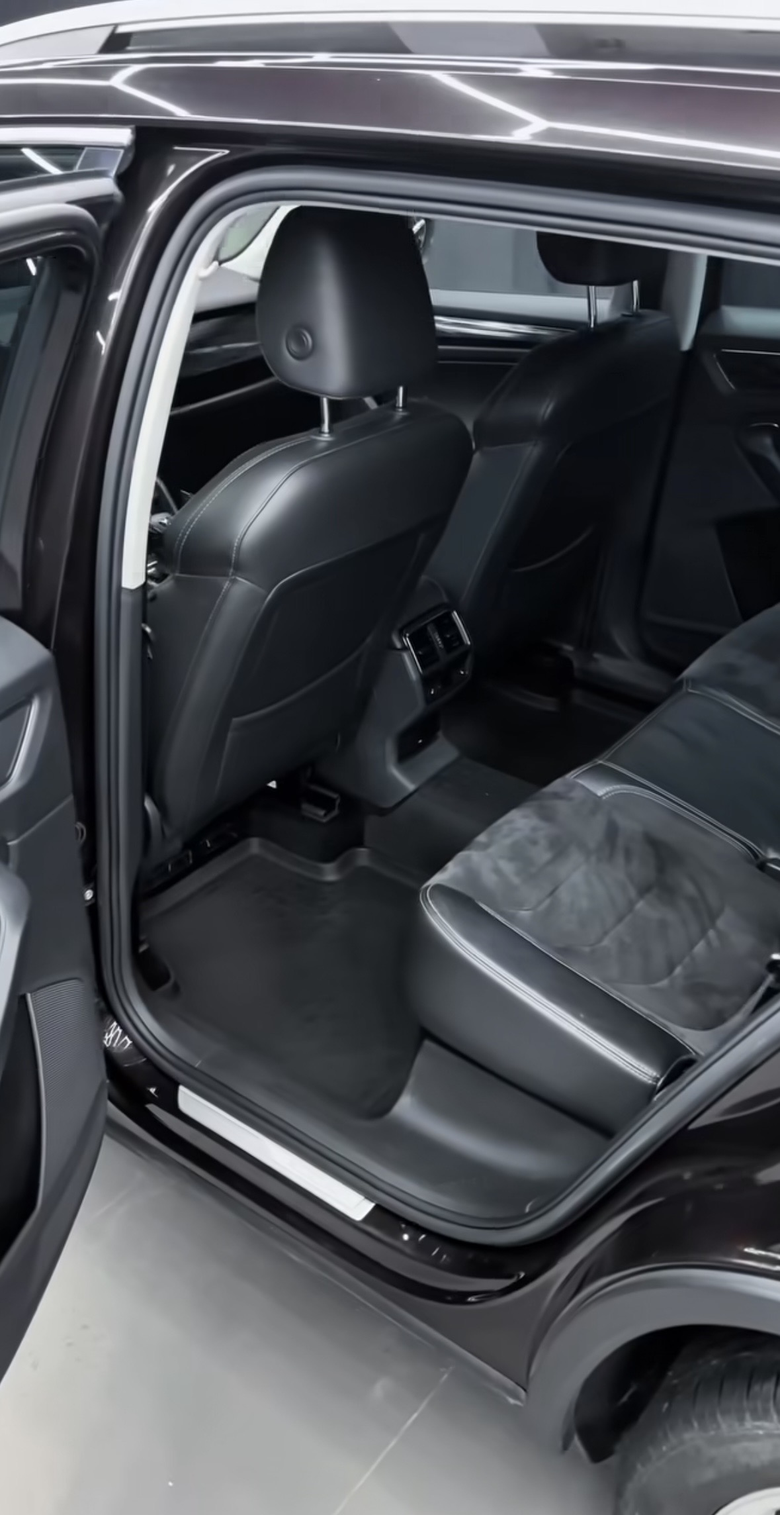
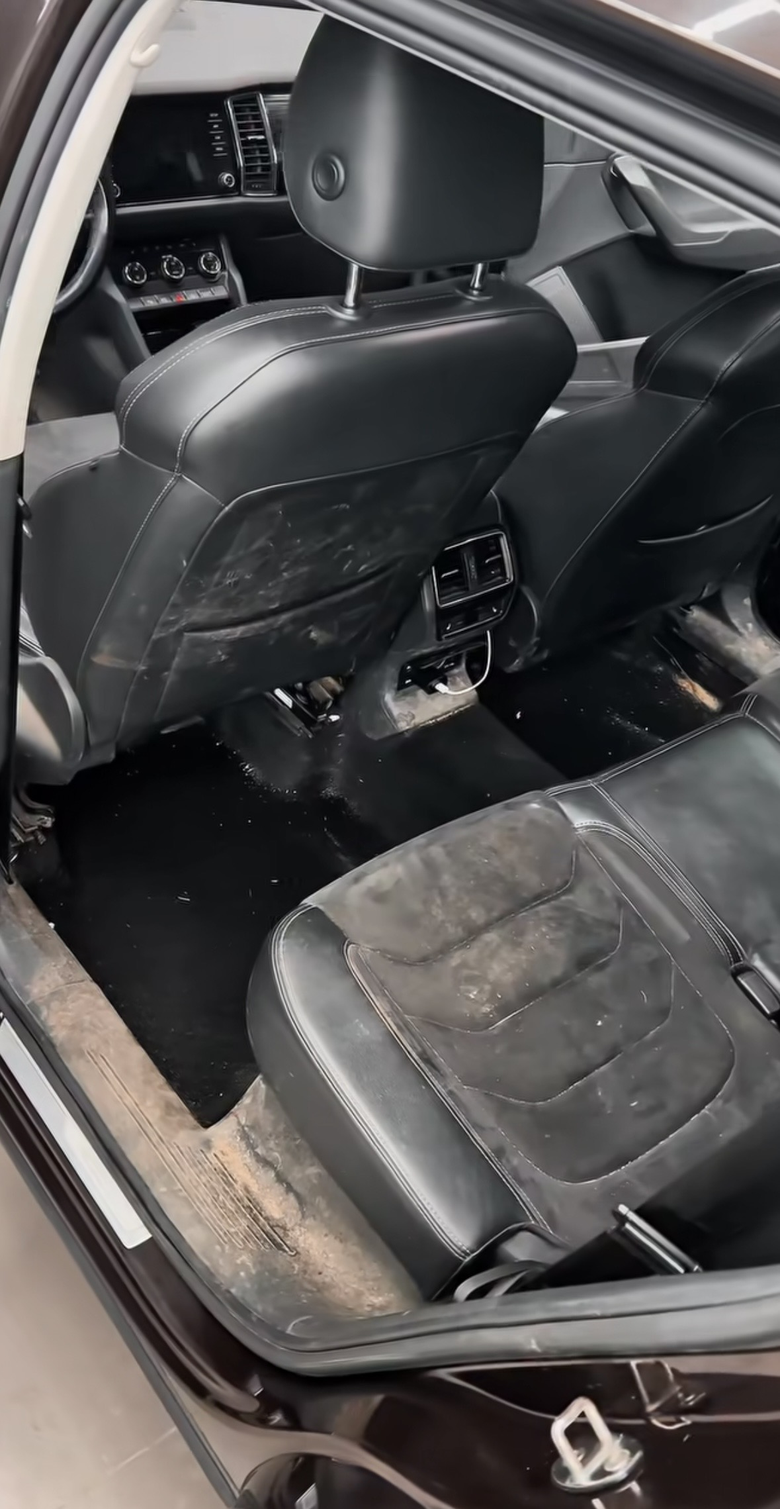
Add files via upload

diff --git a/style.css b/style.css
@@ -1,2 +1,2 @@
-*{box-sizing:border-box}html{scroll-behavior:smooth}body{margin:0;background:#10080c;color:#f7f1ec;font-family:Manrope,Arial,sans-serif;line-height:1.6}a{text-decoration:none;color:inherit}.wrap{width:min(1180px,calc(100% - 44px));margin:auto}.grid2{display:grid;grid-template-columns:1.1fr .9fr;gap:90px}.logo{display:flex;flex-direction:column;font-weight:800;font-size:19px;letter-spacing:.14em;line-height:.85}.logo small{font-size:7px;letter-spacing:.42em;color:#76dfd0;margin-top:7px}header{position:fixed;top:0;left:0;right:0;z-index:20;background:#10080ccc;backdrop-filter:blur(16px);border-bottom:1px solid #ffffff1c}.nav{min-height:82px;display:flex;align-items:center;gap:30px}.nav nav{display:flex;gap:26px;margin-left:auto}.nav nav a,.phone{font-size:12px;color:#d7cccf}.nav nav a:hover{color:#76dfd0}.phone{font-weight:800}.burger{display:none;background:none;border:0;color:#fff;font-size:24px}.hero{height:860px;position:relative;display:flex;align-items:center;overflow:hidden}.hero-bg{position:absolute;inset:0;background:url('images/bmw-studio.jpeg') center/cover}.mask{position:absolute;inset:0;background:linear-gradient(90deg,#10080cf7,#310a18bd 48%,#10080c40),radial-gradient(circle at 72% 48%,#76dfd01c,transparent 28%)}.hero-in{position:relative;z-index:1;padding-top:90px;display:flex;justify-content:space-between;align-items:end}.eyebrow{color:#76dfd0;font-size:10px;font-weight:800;letter-spacing:.25em}.dark,.burg{color:#64152e}.hero h1{font-size:clamp(52px,8vw,98px);line-height:.9;letter-spacing:-.055em;margin:24px 0 28px}.accent{font:inherit;font-style:normal;color:#76dfd0}.lead{max-width:590px;color:#d5c9cc;font-size:16px}.buttons{display:flex;gap:12px;margin-top:30px;flex-wrap:wrap}.btn{min-height:54px;padding:0 25px;border:1px solid transparent;border-radius:2px;display:inline-flex;align-items:center;justify-content:center;font-size:12px;font-weight:800;cursor:pointer}.aqua{background:#76dfd0;color:#0a1715}.aqua:hover{background:#b3f4eb}.outline{border-color:#ffffff55}.outline:hover{border-color:#76dfd0;color:#76dfd0}.hero-note{border-left:1px solid #76dfd080;padding-left:18px;font-size:11px}.hero-note b{color:#76dfd0;display:block}.hero-foot{position:absolute;bottom:0;left:0;right:0;border-top:1px solid #ffffff1c}.hero-foot .wrap{height:55px;display:flex;align-items:center;justify-content:space-between;color:#b9aeb1;font-size:9px;letter-spacing:.2em}.intro{padding:125px 0;background:#f7f1ec;color:#1b0d12}.intro h2,.light h2{font-size:clamp(43px,5vw,68px);line-height:.96;letter-spacing:-.05em;margin:20px 0}.intro h2 .accent,.light h2 .accent{color:#64152e}.introtext{color:#655a5e;max-width:480px;align-self:end}.link{color:#64152e;font-size:12px;font-weight:800}.section{padding:125px 0}.title{display:flex;justify-content:space-between;align-items:end;gap:50px;margin-bottom:55px}.title>p{max-width:360px;color:#b9aeb1;font-size:13px}.services{display:grid;grid-template-columns:1.2fr 1fr 1fr;gap:14px}.card{background:#1a0d13;border:1px solid #ffffff1c;min-height:485px;position:relative;overflow:hidden;transition:.25s}.card:hover{transform:translateY(-5px);border-color:#76dfd070}.card.big{grid-row:span 2}.pic{height:215px;background-size:cover;background-position:center}.big .pic{height:315px}.p1{background-image:url('images/mercedes-wash.jpeg')}.p2{background-image:url('images/bmw-front.jpeg')}.p3{background-image:url('images/after-interior.jpeg')}.p4{background-image:url('images/porsche.jpeg')}.body{padding:27px}.meta{display:flex;justify-content:space-between;color:#76dfd0;font-size:10px;font-weight:800}.card h3{font-size:27px;line-height:1.05;margin:45px 0 12px}.card p{color:#b9aeb1;font-size:12px}.card a{position:absolute;bottom:23px;left:27px;color:#76dfd0;font-size:11px;font-weight:800}.studio{padding:0;background:#310a18}.studio-grid{min-height:650px}.studio-photo{min-height:650px;background:url('images/bmw-studio.jpeg') center/cover;position:relative}.studio-photo span{position:absolute;left:28px;bottom:28px;color:#76dfd0;font-size:9px;letter-spacing:.2em;border-left:1px solid #76dfd0;padding-left:12px}.studio-text{align-self:center;padding:60px 0}.studio-text h2{font-size:clamp(43px,5vw,68px);line-height:.96;margin:20px 0}.studio-text>p{color:#b9aeb1;max-width:510px;font-size:14px}.studio-text ul{list-style:none;padding:0;margin-top:35px}.studio-text li{padding:14px 0;border-top:1px solid #ffffff1c;font-size:12px}.studio-text li:before{content:'✓';color:#76dfd0;margin-right:12px}.light{background:#f7f1ec;color:#1b0d12}.light .title>p{color:#73676a}.gallery{display:grid;grid-template-columns:1.2fr .8fr .8fr;grid-auto-rows:250px;gap:12px}.gallery img{width:100%;height:100%;object-fit:cover;transition:.5s}.gallery img:hover{transform:scale(1.03)}.gallery .g1{grid-row:span 2}.gallery .wide{grid-column:span 2}.compare-section{background:#10080c}.center{text-align:center}.compare{height:580px;margin-top:45px;position:relative;overflow:hidden}.compare>img,.before img{position:absolute;inset:0;width:100%;height:100%;object-fit:cover}.before{position:absolute;inset:0;width:50%;overflow:hidden}.before img{width:100vw;max-width:1180px}.compare input{position:absolute;inset:0;width:100%;height:100%;opacity:0;cursor:ew-resize}.line{position:absolute;top:0;bottom:0;left:50%;width:2px;background:#76dfd0;box-shadow:0 0 15px #76dfd080}.lab{position:absolute;top:18px;background:#10080ccc;padding:5px 9px;font-size:9px;letter-spacing:.2em}.l{left:18px}.r{right:18px}.process{background:#150a0f}.steps{display:grid;grid-template-columns:repeat(4,1fr);gap:12px;margin-top:55px}.steps>div{padding:28px;border-top:1px solid #ffffff1c}.steps b{color:#76dfd0;font-size:10px}.steps h3{margin:40px 0 8px}.steps p{color:#b9aeb1;font-size:12px}.cta{padding:115px 0;background:linear-gradient(135deg,#64152e,#310a18)}.cta h2{font-size:clamp(44px,5vw,68px);line-height:.96;margin:20px 0}.cta p{color:#dfd1d5}.contacts{display:grid;gap:7px;margin-top:30px}.contacts a,.contacts span{color:#b3f4eb;font-size:13px}.cta form{display:grid;gap:12px;background:#10080c66;padding:30px;border:1px solid #ffffff20}.cta label{font-size:10px;letter-spacing:.08em;color:#ddd;display:grid;gap:7px}.cta input,.cta select{height:52px;background:#10080c;border:1px solid #ffffff20;color:#fff;padding:0 14px;outline:none}.cta input:focus,.cta select:focus{border-color:#76dfd0}.cta small{color:#76dfd0;min-height:20px}footer{background:#0b0609;padding:32px 0}.foot{display:flex;justify-content:space-between;align-items:center;color:#85787b;font-size:10px}.foot>a:last-child{color:#76dfd0}@media(max-width:900px){.nav nav{display:none}.burger{display:block;margin-left:auto}.phone{display:none}.nav nav.open{display:flex;position:absolute;top:82px;left:0;right:0;background:#150a0f;padding:22px;flex-direction:column}.hero{height:780px}.hero-in{display:block}.hero-note{margin-top:55px;width:max-content}.grid2{grid-template-columns:1fr;gap:45px}.services{grid-template-columns:1fr 1fr}.card.big{grid-row:auto}.studio-grid{grid-template-columns:1fr}.studio-photo{min-height:500px}.gallery{grid-template-columns:1fr 1fr}.gallery .g1{grid-row:auto}.gallery .wide{grid-column:span 2}.steps{grid-template-columns:1fr 1fr}.cta{padding:90px 0}}@media(max-width:560px){.wrap{width:calc(100% - 28px)}.section,.intro{padding:90px 0}.hero h1{font-size:54px}.title{display:block}.title>p{margin-top:24px}.services{grid-template-columns:1fr}.gallery{grid-template-columns:1fr;grid-auto-rows:240px}.gallery .wide{grid-column:auto}.compare{height:420px}.steps{grid-template-columns:1fr}.foot{flex-direction:column;align-items:flex-start;gap:16px}}
+*{box-sizing:border-box}html{scroll-behavior:smooth}body{margin:0;background:#10080c;color:#f7f1ec;font-family:Manrope,Arial,sans-serif;line-height:1.6}a{text-decoration:none;color:inherit}.wrap{width:min(1180px,calc(100% - 44px));margin:auto}.grid2{display:grid;grid-template-columns:1.1fr .9fr;gap:90px}.logo{display:flex;flex-direction:column;font-weight:800;font-size:19px;letter-spacing:.14em;line-height:.85}.logo small{font-size:7px;letter-spacing:.42em;color:#76dfd0;margin-top:7px}header{position:fixed;top:0;left:0;right:0;z-index:20;background:#10080ccc;backdrop-filter:blur(16px);border-bottom:1px solid #ffffff1c}.nav{min-height:82px;display:flex;align-items:center;gap:30px}.nav nav{display:flex;gap:26px;margin-left:auto}.nav nav a,.phone{font-size:12px;color:#d7cccf}.nav nav a:hover{color:#76dfd0}.phone{font-weight:800}.burger{display:none;background:none;border:0;color:#fff;font-size:24px}.hero{height:860px;position:relative;display:flex;align-items:center;overflow:hidden}.hero-bg{position:absolute;inset:0;background:url('bmw-studio.jpeg') center/cover}.mask{position:absolute;inset:0;background:linear-gradient(90deg,#10080cf7,#310a18bd 48%,#10080c40),radial-gradient(circle at 72% 48%,#76dfd01c,transparent 28%)}.hero-in{position:relative;z-index:1;padding-top:90px;display:flex;justify-content:space-between;align-items:end}.eyebrow{color:#76dfd0;font-size:10px;font-weight:800;letter-spacing:.25em}.dark,.burg{color:#64152e}.hero h1{font-size:clamp(52px,8vw,98px);line-height:.9;letter-spacing:-.055em;margin:24px 0 28px}.accent{font:inherit;font-style:normal;color:#76dfd0}.lead{max-width:590px;color:#d5c9cc;font-size:16px}.buttons{display:flex;gap:12px;margin-top:30px;flex-wrap:wrap}.btn{min-height:54px;padding:0 25px;border:1px solid transparent;border-radius:2px;display:inline-flex;align-items:center;justify-content:center;font-size:12px;font-weight:800;cursor:pointer}.aqua{background:#76dfd0;color:#0a1715}.aqua:hover{background:#b3f4eb}.outline{border-color:#ffffff55}.outline:hover{border-color:#76dfd0;color:#76dfd0}.hero-note{border-left:1px solid #76dfd080;padding-left:18px;font-size:11px}.hero-note b{color:#76dfd0;display:block}.hero-foot{position:absolute;bottom:0;left:0;right:0;border-top:1px solid #ffffff1c}.hero-foot .wrap{height:55px;display:flex;align-items:center;justify-content:space-between;color:#b9aeb1;font-size:9px;letter-spacing:.2em}.intro{padding:125px 0;background:#f7f1ec;color:#1b0d12}.intro h2,.light h2{font-size:clamp(43px,5vw,68px);line-height:.96;letter-spacing:-.05em;margin:20px 0}.intro h2 .accent,.light h2 .accent{color:#64152e}.introtext{color:#655a5e;max-width:480px;align-self:end}.link{color:#64152e;font-size:12px;font-weight:800}.section{padding:125px 0}.title{display:flex;justify-content:space-between;align-items:end;gap:50px;margin-bottom:55px}.title>p{max-width:360px;color:#b9aeb1;font-size:13px}.services{display:grid;grid-template-columns:1.2fr 1fr 1fr;gap:14px}.card{background:#1a0d13;border:1px solid #ffffff1c;min-height:485px;position:relative;overflow:hidden;transition:.25s}.card:hover{transform:translateY(-5px);border-color:#76dfd070}.card.big{grid-row:span 2}.pic{height:215px;background-size:cover;background-position:center}.big .pic{height:315px}.p1{background-image:url('mercedes-wash.jpeg')}.p2{background-image:url('bmw-front.jpeg')}.p3{background-image:url('after-interior.jpeg')}.p4{background-image:url('porsche.jpeg')}.body{padding:27px}.meta{display:flex;justify-content:space-between;color:#76dfd0;font-size:10px;font-weight:800}.card h3{font-size:27px;line-height:1.05;margin:45px 0 12px}.card p{color:#b9aeb1;font-size:12px}.card a{position:absolute;bottom:23px;left:27px;color:#76dfd0;font-size:11px;font-weight:800}.studio{padding:0;background:#310a18}.studio-grid{min-height:650px}.studio-photo{min-height:650px;background:url('bmw-studio.jpeg') center/cover;position:relative}.studio-photo span{position:absolute;left:28px;bottom:28px;color:#76dfd0;font-size:9px;letter-spacing:.2em;border-left:1px solid #76dfd0;padding-left:12px}.studio-text{align-self:center;padding:60px 0}.studio-text h2{font-size:clamp(43px,5vw,68px);line-height:.96;margin:20px 0}.studio-text>p{color:#b9aeb1;max-width:510px;font-size:14px}.studio-text ul{list-style:none;padding:0;margin-top:35px}.studio-text li{padding:14px 0;border-top:1px solid #ffffff1c;font-size:12px}.studio-text li:before{content:'✓';color:#76dfd0;margin-right:12px}.light{background:#f7f1ec;color:#1b0d12}.light .title>p{color:#73676a}.gallery{display:grid;grid-template-columns:1.2fr .8fr .8fr;grid-auto-rows:250px;gap:12px}.gallery img{width:100%;height:100%;object-fit:cover;transition:.5s}.gallery img:hover{transform:scale(1.03)}.gallery .g1{grid-row:span 2}.gallery .wide{grid-column:span 2}.compare-section{background:#10080c}.center{text-align:center}.compare{height:580px;margin-top:45px;position:relative;overflow:hidden}.compare>img,.before img{position:absolute;inset:0;width:100%;height:100%;object-fit:cover}.before{position:absolute;inset:0;width:50%;overflow:hidden}.before img{width:100vw;max-width:1180px}.compare input{position:absolute;inset:0;width:100%;height:100%;opacity:0;cursor:ew-resize}.line{position:absolute;top:0;bottom:0;left:50%;width:2px;background:#76dfd0;box-shadow:0 0 15px #76dfd080}.lab{position:absolute;top:18px;background:#10080ccc;padding:5px 9px;font-size:9px;letter-spacing:.2em}.l{left:18px}.r{right:18px}.process{background:#150a0f}.steps{display:grid;grid-template-columns:repeat(4,1fr);gap:12px;margin-top:55px}.steps>div{padding:28px;border-top:1px solid #ffffff1c}.steps b{color:#76dfd0;font-size:10px}.steps h3{margin:40px 0 8px}.steps p{color:#b9aeb1;font-size:12px}.cta{padding:115px 0;background:linear-gradient(135deg,#64152e,#310a18)}.cta h2{font-size:clamp(44px,5vw,68px);line-height:.96;margin:20px 0}.cta p{color:#dfd1d5}.contacts{display:grid;gap:7px;margin-top:30px}.contacts a,.contacts span{color:#b3f4eb;font-size:13px}.cta form{display:grid;gap:12px;background:#10080c66;padding:30px;border:1px solid #ffffff20}.cta label{font-size:10px;letter-spacing:.08em;color:#ddd;display:grid;gap:7px}.cta input,.cta select{height:52px;background:#10080c;border:1px solid #ffffff20;color:#fff;padding:0 14px;outline:none}.cta input:focus,.cta select:focus{border-color:#76dfd0}.cta small{color:#76dfd0;min-height:20px}footer{background:#0b0609;padding:32px 0}.foot{display:flex;justify-content:space-between;align-items:center;color:#85787b;font-size:10px}.foot>a:last-child{color:#76dfd0}@media(max-width:900px){.nav nav{display:none}.burger{display:block;margin-left:auto}.phone{display:none}.nav nav.open{display:flex;position:absolute;top:82px;left:0;right:0;background:#150a0f;padding:22px;flex-direction:column}.hero{height:780px}.hero-in{display:block}.hero-note{margin-top:55px;width:max-content}.grid2{grid-template-columns:1fr;gap:45px}.services{grid-template-columns:1fr 1fr}.card.big{grid-row:auto}.studio-grid{grid-template-columns:1fr}.studio-photo{min-height:500px}.gallery{grid-template-columns:1fr 1fr}.gallery .g1{grid-row:auto}.gallery .wide{grid-column:span 2}.steps{grid-template-columns:1fr 1fr}.cta{padding:90px 0}}@media(max-width:560px){.wrap{width:calc(100% - 28px)}.section,.intro{padding:90px 0}.hero h1{font-size:54px}.title{display:block}.title>p{margin-top:24px}.services{grid-template-columns:1fr}.gallery{grid-template-columns:1fr;grid-auto-rows:240px}.gallery .wide{grid-column:auto}.compare{height:420px}.steps{grid-template-columns:1fr}.foot{flex-direction:column;align-items:flex-start;gap:16px}}
 /* ROYAL DETAIL typography: same font and size inside each phrase; accent changes color only. */

diff --git a/index.html b/index.html
@@ -1,0 +1,52 @@
+<!doctype html>
+<html lang="ru"><head>
+<meta charset="utf-8"><meta name="viewport" content="width=device-width,initial-scale=1">
+<title>ROYAL DETAIL — Premium Detailing</title>
+<meta name="description" content="ROYAL DETAIL — премиальный детейлинг автомобилей">
+<link rel="preconnect" href="https://fonts.googleapis.com"><link rel="preconnect" href="https://fonts.gstatic.com" crossorigin>
+<link href="https://fonts.googleapis.com/css2?family=Manrope:wght@400;500;600;700;800&display=swap" rel="stylesheet">
+<link rel="stylesheet" href="style.css"></head>
+<body>
+<header><div class="wrap nav"><a class="logo" href="#home">ROYAL<small>DETAILING STUDIO</small></a>
+<button class="burger">☰</button><nav><a href="#services">Услуги</a><a href="#studio">О студии</a><a href="#works">Работы</a><a href="#process">Процесс</a><a href="#contact">Контакты</a></nav>
+<a class="phone" href="tel:+79027221523">8 902 722-15-23</a></div></header>
+<main id="home">
+<section class="hero"><div class="hero-bg"></div><div class="mask"></div><div class="wrap hero-in"><div><p class="eyebrow">PREMIUM CAR CARE</p>
+<h1>Автомобиль, <span class="accent">достойный внимания.</span></h1><p class="lead">Премиальный детейлинг без компромиссов: восстановление блеска, защита кузова и идеальная чистота интерьера.</p>
+<div class="buttons"><a class="btn aqua" href="#contact">Записаться</a><a class="btn outline" href="#services">Смотреть услуги</a></div></div>
+<div class="hero-note"><b>01</b>Работаем с автомобилем<br>как с произведением искусства.</div></div>
+<div class="hero-foot"><div class="wrap"><span>ROYAL DETAIL · PREMIUM STUDIO</span><span>SCROLL ↓</span></div></div></section>
+
+<section class="intro"><div class="wrap grid2"><div><p class="eyebrow dark">ROYAL PHILOSOPHY</p><h2>Красота начинается <span class="accent">с деталей.</span></h2></div><div class="introtext"><p>Студия для тех, кто ценит качество работы и эстетику премиального сервиса. Подбираем процедуры под автомобиль, а не продаём лишние услуги.</p><a class="link" href="#studio">Узнать больше →</a></div></div></section>
+
+<section class="section" id="services"><div class="wrap"><div class="title"><div><p class="eyebrow">НАШИ УСЛУГИ</p><h2>Уход, который <span class="accent">видно.</span></h2></div><p>От восстановления блеска до долговременной защиты кузова и глубокого ухода за салоном.</p></div>
+<div class="services">
+<article class="card big"><div class="pic p1"></div><div class="body"><div class="meta"><span>01</span><span>от 45 000 ₽</span></div><h3>Керамическая<br>защита</h3><p>Глубина цвета, гидрофобный эффект и защита лакокрасочного покрытия.</p><a href="#contact">Записаться →</a></div></article>
+<article class="card"><div class="pic p2"></div><div class="body"><div class="meta"><span>02</span><span>от 18 000 ₽</span></div><h3>Полировка<br>кузова</h3><p>Возвращаем лаку гладкость, блеск и насыщенность цвета.</p><a href="#contact">Записаться →</a></div></article>
+<article class="card"><div class="pic p3"></div><div class="body"><div class="meta"><span>03</span><span>от 12 000 ₽</span></div><h3>Детейлинг<br>интерьера</h3><p>Глубокая очистка, уход за кожей и каждой зоной салона.</p><a href="#contact">Записаться →</a></div></article>
+<article class="card"><div class="pic p4"></div><div class="body"><div class="meta"><span>04</span><span>от 35 000 ₽</span></div><h3>Защитная<br>плёнка</h3><p>Прозрачная защита зон риска от сколов и царапин.</p><a href="#contact">Записаться →</a></div></article>
+</div></div></section>
+
+<section class="studio" id="studio"><div class="wrap grid2 studio-grid"><div class="studio-photo"><span>ROYAL<br>STANDARD</span></div><div class="studio-text"><p class="eyebrow">О СТУДИИ</p><h2>Премиальный <span class="accent">стандарт</span> в каждой детали.</h2><p>Перед работой внимательно осматриваем автомобиль и составляем понятный план. Никаких лишних процедур — только то, что действительно нужно.</p>
+<ul><li>Профессиональная химия и оборудование</li><li>Индивидуальный подбор комплекса</li><li>Контроль качества на каждом этапе</li><li>Рекомендации по дальнейшему уходу</li></ul></div></div></section>
+
+<section class="light section" id="works"><div class="wrap"><div class="title"><div><p class="eyebrow burg">PORTFOLIO</p><h2>Результат <span class="accent">говорит сам.</span></h2></div><p>Наши работы и автомобили, которые прошли уход в ROYAL DETAIL.</p></div>
+<div class="gallery">
+<img class="g1" src="bmw-front.jpeg" alt="BMW — работа ROYAL DETAIL">
+<img src="bmw-pink.jpeg" alt="BMW — работа ROYAL DETAIL">
+<img src="porsche.jpeg" alt="Porsche — работа ROYAL DETAIL">
+<img class="wide" src="audi-studio.jpeg" alt="Audi — работа ROYAL DETAIL">
+</div></div></section>
+
+<section class="section compare-section"><div class="wrap center"><p class="eyebrow">ДО / ПОСЛЕ</p><h2>Когда разница <span class="accent">очевидна.</span></h2><div class="compare">
+<img src="after-interior.jpeg" alt="Салон после детейлинга">
+<div class="before"><img src="before-interior.jpeg" alt="Салон до детейлинга"></div>
+<input id="range" type="range" min="0" max="100" value="50">
+<i class="line"></i><b class="lab l">ДО</b><b class="lab r">ПОСЛЕ</b>
+</div><input id="range" type="range" min="0" max="100" value="50"><i class="line"></i><b class="lab l">ДО</b><b class="lab r">ПОСЛЕ</b></div></div></section>
+
+<section class="section process" id="process"><div class="wrap center"><p class="eyebrow">КАК МЫ РАБОТАЕМ</p><h2>Четыре шага к <span class="accent">идеалу.</span></h2><div class="steps"><div><b>01</b><h3>Заявка</h3><p>Вы рассказываете об автомобиле и выбираете время.</p></div><div><b>02</b><h3>Осмотр</h3><p>Оцениваем состояние и согласовываем комплекс.</p></div><div><b>03</b><h3>Работа</h3><p>Выполняем процедуры с контролем качества.</p></div><div><b>04</b><h3>Выдача</h3><p>Показываем результат и даём рекомендации.</p></div></div></div></section>
+
+<section class="cta" id="contact"><div class="wrap grid2"><div><p class="eyebrow">ЗАПИСЬ</p><h2>Подарите автомобилю <span class="accent">ROYAL-уход.</span></h2><p>Оставьте контакты — мы свяжемся с вами и подберём подходящий комплекс.</p><div class="contacts"><a href="tel:+79027221523">8 902 722-15-23</a><span>Москва · район Раменки</span></div></div>
+<form id="form"><label>Имя<input required name="name" placeholder="Ваше имя"></label><label>Телефон<input required name="phone" placeholder="+7 ___ ___-__-__"></label><label>Услуга<select name="service"><option>Выберите услугу</option><option>Керамическая защита</option><option>Полировка кузова</option><option>Детейлинг интерьера</option><option>Защитная плёнка</option></select></label><button class="btn aqua">Отправить заявку</button><small id="msg"></small></form></div></section>
+</main><footer><div class="wrap foot"><a class="logo" href="#home">ROYAL<small>DETAILING STUDIO</small></a><span>© 2026 ROYAL DETAIL</span><a href="#home">Наверх ↑</a></div></footer><script src="script.js"></script></body></html>

diff --git a/README.md b/README.md
@@ -1,52 +1,22 @@
-<!doctype html>
-<html lang="ru"><head>
-<meta charset="utf-8"><meta name="viewport" content="width=device-width,initial-scale=1">
-<title>ROYAL DETAIL — Premium Detailing</title>
-<meta name="description" content="ROYAL DETAIL — премиальный детейлинг автомобилей">
-<link rel="preconnect" href="https://fonts.googleapis.com"><link rel="preconnect" href="https://fonts.gstatic.com" crossorigin>
-<link href="https://fonts.googleapis.com/css2?family=Manrope:wght@400;500;600;700;800&display=swap" rel="stylesheet">
-<link rel="stylesheet" href="style.css"></head>
-<body>
-<header><div class="wrap nav"><a class="logo" href="#home">ROYAL<small>DETAILING STUDIO</small></a>
-<button class="burger">☰</button><nav><a href="#services">Услуги</a><a href="#studio">О студии</a><a href="#works">Работы</a><a href="#process">Процесс</a><a href="#contact">Контакты</a></nav>
-<a class="phone" href="tel:+79027221523">8 902 722-15-23</a></div></header>
-<main id="home">
-<section class="hero"><div class="hero-bg"></div><div class="mask"></div><div class="wrap hero-in"><div><p class="eyebrow">PREMIUM CAR CARE</p>
-<h1>Автомобиль, <span class="accent">достойный внимания.</span></h1><p class="lead">Премиальный детейлинг без компромиссов: восстановление блеска, защита кузова и идеальная чистота интерьера.</p>
-<div class="buttons"><a class="btn aqua" href="#contact">Записаться</a><a class="btn outline" href="#services">Смотреть услуги</a></div></div>
-<div class="hero-note"><b>01</b>Работаем с автомобилем<br>как с произведением искусства.</div></div>
-<div class="hero-foot"><div class="wrap"><span>ROYAL DETAIL · PREMIUM STUDIO</span><span>SCROLL ↓</span></div></div></section>
+# ROYAL DETAIL — готовая версия сайта
 
-<section class="intro"><div class="wrap grid2"><div><p class="eyebrow dark">ROYAL PHILOSOPHY</p><h2>Красота начинается <span class="accent">с деталей.</span></h2></div><div class="introtext"><p>Студия для тех, кто ценит качество работы и эстетику премиального сервиса. Подбираем процедуры под автомобиль, а не продаём лишние услуги.</p><a class="link" href="#studio">Узнать больше →</a></div></div></section>
+Эта версия подготовлена для GitHub Pages.
 
-<section class="section" id="services"><div class="wrap"><div class="title"><div><p class="eyebrow">НАШИ УСЛУГИ</p><h2>Уход, который <span class="accent">видно.</span></h2></div><p>От восстановления блеска до долговременной защиты кузова и глубокого ухода за салоном.</p></div>
-<div class="services">
-<article class="card big"><div class="pic p1"></div><div class="body"><div class="meta"><span>01</span><span>от 45 000 ₽</span></div><h3>Керамическая<br>защита</h3><p>Глубина цвета, гидрофобный эффект и защита лакокрасочного покрытия.</p><a href="#contact">Записаться →</a></div></article>
-<article class="card"><div class="pic p2"></div><div class="body"><div class="meta"><span>02</span><span>от 18 000 ₽</span></div><h3>Полировка<br>кузова</h3><p>Возвращаем лаку гладкость, блеск и насыщенность цвета.</p><a href="#contact">Записаться →</a></div></article>
-<article class="card"><div class="pic p3"></div><div class="body"><div class="meta"><span>03</span><span>от 12 000 ₽</span></div><h3>Детейлинг<br>интерьера</h3><p>Глубокая очистка, уход за кожей и каждой зоной салона.</p><a href="#contact">Записаться →</a></div></article>
-<article class="card"><div class="pic p4"></div><div class="body"><div class="meta"><span>04</span><span>от 35 000 ₽</span></div><h3>Защитная<br>плёнка</h3><p>Прозрачная защита зон риска от сколов и царапин.</p><a href="#contact">Записаться →</a></div></article>
-</div></div></section>
+## Что изменено
+- добавлены ваши фотографии в папку `images`;
+- главное фото, услуги, портфолио и блок «До / После» используют ваши изображения;
+- убрана служебная надпись про демонстрационные фотографии;
+- телефон: **8 902 722-15-23**;
+- локация: **Москва · район Раменки**;
+- Instagram не добавлялся;
+- список услуг и цены оставлены без изменений;
+- заголовки приведены к одному шрифту и одному размеру внутри фразы: выделение делается только цветом.
 
-<section class="studio" id="studio"><div class="wrap grid2 studio-grid"><div class="studio-photo"><span>ROYAL<br>STANDARD</span></div><div class="studio-text"><p class="eyebrow">О СТУДИИ</p><h2>Премиальный <span class="accent">стандарт</span> в каждой детали.</h2><p>Перед работой внимательно осматриваем автомобиль и составляем понятный план. Никаких лишних процедур — только то, что действительно нужно.</p>
-<ul><li>Профессиональная химия и оборудование</li><li>Индивидуальный подбор комплекса</li><li>Контроль качества на каждом этапе</li><li>Рекомендации по дальнейшему уходу</li></ul></div></div></section>
+## Файлы
+- `index.html` — тексты и структура;
+- `style.css` — внешний вид;
+- `script.js` — меню и слайдер «До / После»;
+- `images/` — ваши фотографии.
 
-<section class="light section" id="works"><div class="wrap"><div class="title"><div><p class="eyebrow burg">PORTFOLIO</p><h2>Результат <span class="accent">говорит сам.</span></h2></div><p>Наши работы и автомобили, которые прошли уход в ROYAL DETAIL.</p></div>
-<div class="gallery">
-<img class="g1" src="images/bmw-front.jpeg" alt="BMW — работа ROYAL DETAIL">
-<img src="images/bmw-pink.jpeg" alt="BMW — работа ROYAL DETAIL">
-<img src="images/porsche.jpeg" alt="Porsche — работа ROYAL DETAIL">
-<img class="wide" src="images/audi-studio.jpeg" alt="Audi — работа ROYAL DETAIL">
-</div></div></section>
-
-<section class="section compare-section"><div class="wrap center"><p class="eyebrow">ДО / ПОСЛЕ</p><h2>Когда разница <span class="accent">очевидна.</span></h2><div class="compare">
-<img src="images/after-interior.jpeg" alt="Салон после детейлинга">
-<div class="before"><img src="images/before-interior.jpeg" alt="Салон до детейлинга"></div>
-<input id="range" type="range" min="0" max="100" value="50">
-<i class="line"></i><b class="lab l">ДО</b><b class="lab r">ПОСЛЕ</b>
-</div><input id="range" type="range" min="0" max="100" value="50"><i class="line"></i><b class="lab l">ДО</b><b class="lab r">ПОСЛЕ</b></div></div></section>
-
-<section class="section process" id="process"><div class="wrap center"><p class="eyebrow">КАК МЫ РАБОТАЕМ</p><h2>Четыре шага к <span class="accent">идеалу.</span></h2><div class="steps"><div><b>01</b><h3>Заявка</h3><p>Вы рассказываете об автомобиле и выбираете время.</p></div><div><b>02</b><h3>Осмотр</h3><p>Оцениваем состояние и согласовываем комплекс.</p></div><div><b>03</b><h3>Работа</h3><p>Выполняем процедуры с контролем качества.</p></div><div><b>04</b><h3>Выдача</h3><p>Показываем результат и даём рекомендации.</p></div></div></div></section>
-
-<section class="cta" id="contact"><div class="wrap grid2"><div><p class="eyebrow">ЗАПИСЬ</p><h2>Подарите автомобилю <span class="accent">ROYAL-уход.</span></h2><p>Оставьте контакты — мы свяжемся с вами и подберём подходящий комплекс.</p><div class="contacts"><a href="tel:+79027221523">8 902 722-15-23</a><span>Москва · район Раменки</span></div></div>
-<form id="form"><label>Имя<input required name="name" placeholder="Ваше имя"></label><label>Телефон<input required name="phone" placeholder="+7 ___ ___-__-__"></label><label>Услуга<select name="service"><option>Выберите услугу</option><option>Керамическая защита</option><option>Полировка кузова</option><option>Детейлинг интерьера</option><option>Защитная плёнка</option></select></label><button class="btn aqua">Отправить заявку</button><small id="msg"></small></form></div></section>
-</main><footer><div class="wrap foot"><a class="logo" href="#home">ROYAL<small>DETAILING STUDIO</small></a><span>© 2026 ROYAL DETAIL</span><a href="#home">Наверх ↑</a></div></footer><script src="script.js"></script></body></html>
+## Публикация
+Загрузите содержимое этой папки в ваш репозиторий GitHub `royal-detail` вместо старых файлов.
